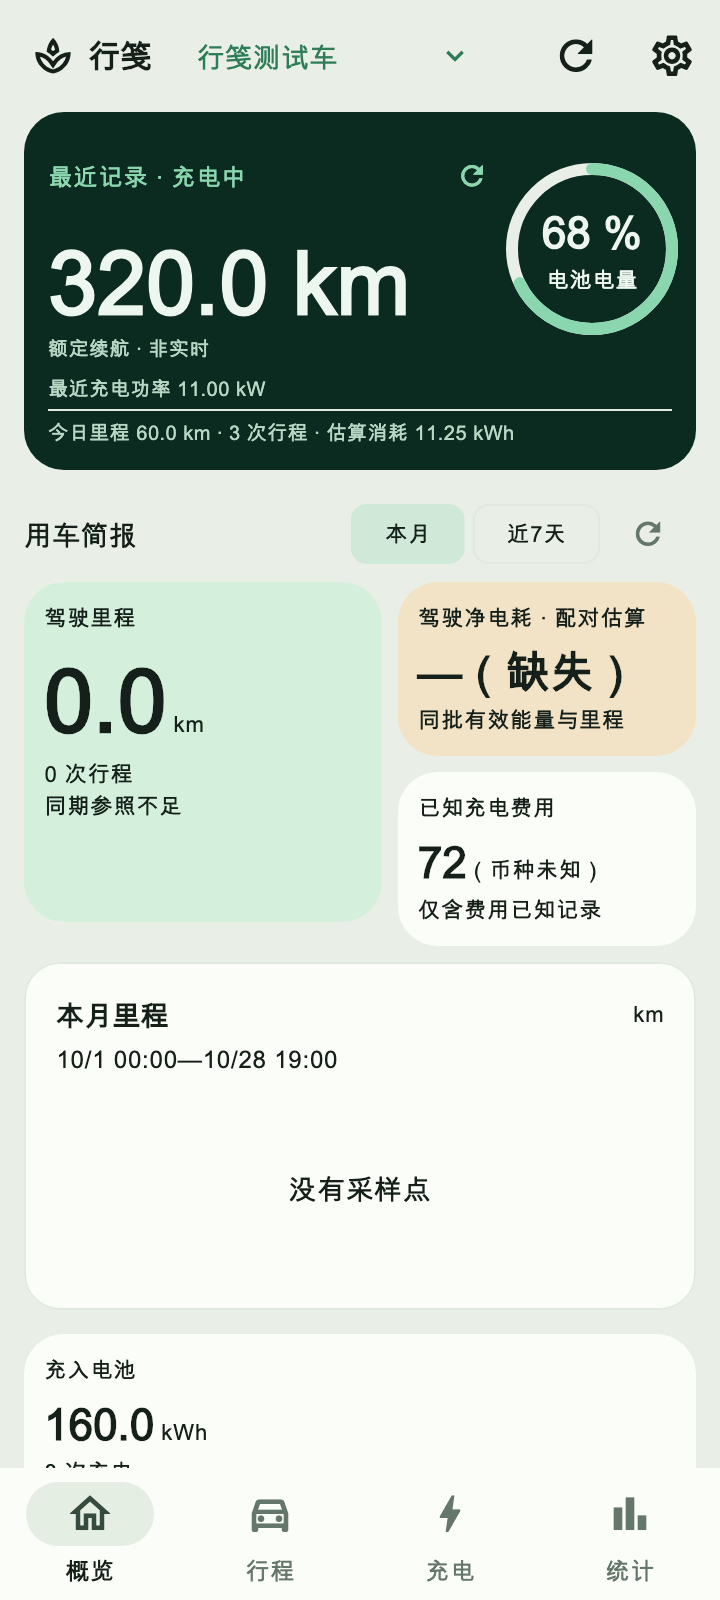
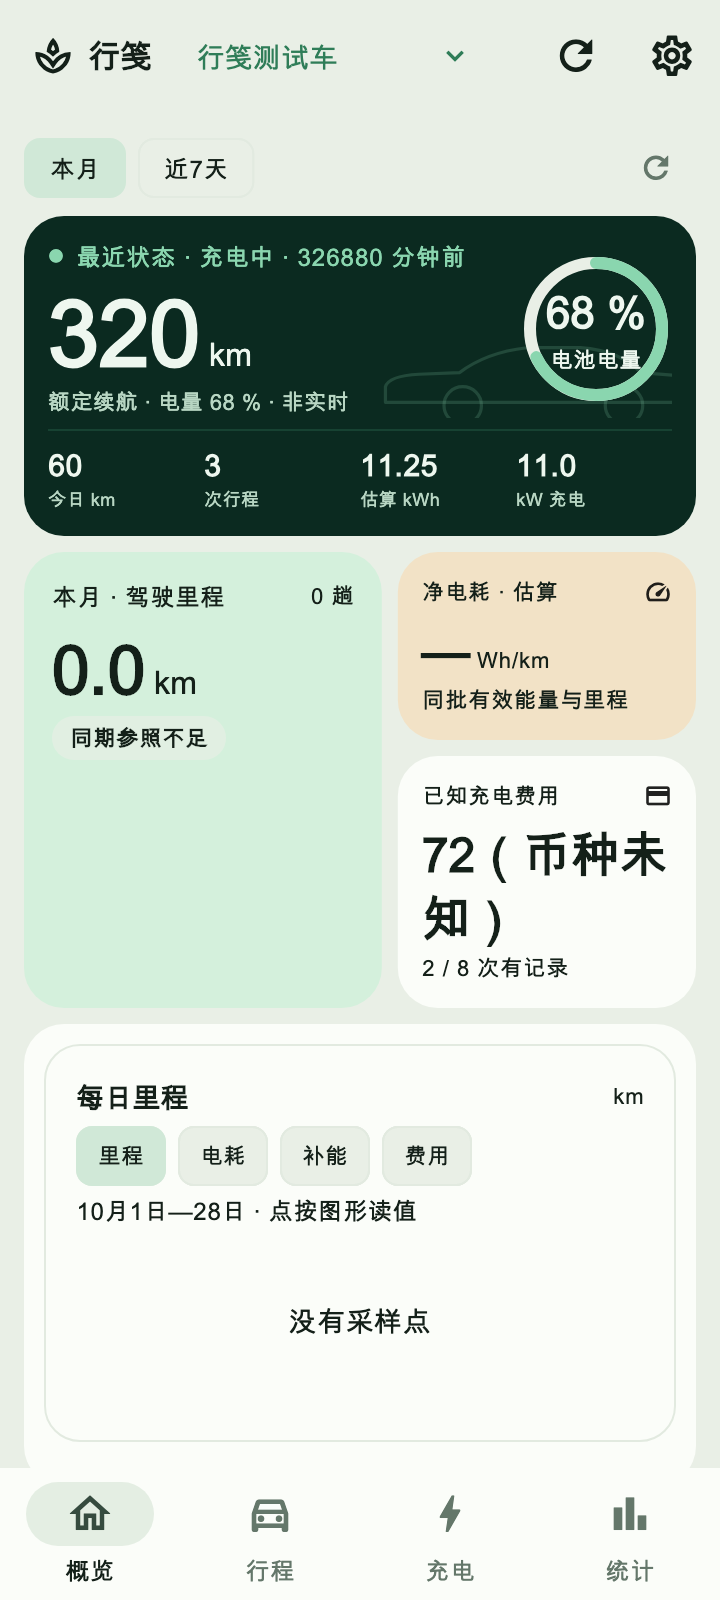
修复渲染入口选择器并刷新概览图册
collage_render_test 改按当前「净电耗 · 估算」入口选净值口径；
c_gallery_render_test 的路线脚注改为「路线 · 非导航」并只在 100% 断言；
重新生成 collage-renders/overview 24 张。

diff --git a/test/collage_render_test.dart b/test/collage_render_test.dart
@@ -110,9 +110,8 @@ void main() {
             ),
           );
           await save('overview-$suffix');
-          final metricLabel = scenario == 'capability-failure'
-              ? '驾驶净电耗 · 估算'
-              : '驾驶净电耗 · 配对估算';
+          // 净值口径的入口是本月块「净电耗 · 估算」tile（旧文案为「驾驶净电耗 …」）。
+          const metricLabel = '净电耗 · 估算';
           await tester.scrollUntilVisible(
             find.text(metricLabel).hitTestable(),
             120,

diff --git a/test/c_gallery_render_test.dart b/test/c_gallery_render_test.dart
@@ -214,7 +214,8 @@ void main() {
             await tester.tap(find.text('最近行程').hitTestable());
             await tester.pumpAndSettle();
             await save('drive-detail-$suffix');
-            expectPage('路线示意 · 非导航');
+            // ≥150% 字号时路线说明带收成两行，C05 的「非导航」脚注不再绘制。
+            if (scale == 1.0) expectPage('路线 · 非导航');
             await pumpApp('overview-return-$suffix', scenario: scenario);
           }
           {

diff --git a/docs/implementation/collage-overview.md b/docs/implementation/collage-overview.md
@@ -48,4 +48,15 @@ TDD：首个布局测试先失败（里程tile160宽，预期>175），实施后
 - 概览本月块启用 `stretch`：主 tile 的里程 Sparkline 改 `Expanded` 吸收余量（≥150% 单列时仍固定 26），回到 C 原型「主 tile 下半段大面积折线」的比例；净电耗 tile 补右上角图标，与费用 tile 的标签行同构。
 - 最近记录改为共享 tile 结构（标题行／主数／单行口径／页脚）：宽屏 `IntrinsicHeight` 两等列，页脚（时间戳）底对齐；≥150% 单列。充电卡口径改为「充入 46.80 kWh」，不再输出悬空的「结束电量」；进度条移入页脚上方并显式取 hero 主题的 `primary`/`onSurface`，避免轨道比进度更亮。
 
-回归：新增三项先失败（本月块底边差 60dp、最近记录底边差 4dp）后通过——两列矩形顶底对齐、页脚贴卡底（距卡底 20dp = 内容 12 + 卡片下距 8）、口径文案与 ≥150% 单列分支。全量 `tool/flutterw test --no-pub` 274 通过、19 项 opt-in 渲染跳过；`flutter analyze --no-pub` 无问题。渲染复核用临时脚手架在 390×844 浅/深 ×100/200 完成（位图未入库、脚手架已删除）：本月块两列顶底对齐，最近记录两卡等高、页脚同一基线，单列分支无溢出。图册入口 `test/collage_render_test.dart` 的选择器仍是旧口径文案（`驾驶净电耗 · 配对估算` 等），本次未修，因此 `collage-renders/overview/` 未刷新——属既有失效，另行修复。
+回归：新增三项先失败（本月块底边差 60dp、最近记录底边差 4dp）后通过——两列矩形顶底对齐、页脚贴卡底（距卡底 20dp = 内容 12 + 卡片下距 8）、口径文案与 ≥150% 单列分支。全量 `tool/flutterw test --no-pub` 274 通过、19 项 opt-in 渲染跳过；`flutter analyze --no-pub` 无问题。
+
+复现：`tool/flutterw test --no-pub test/collage_render_test.dart --dart-define=MILEAF_RENDER_OUTPUT=docs/implementation/collage-renders/overview '--dart-define=MILEAF_RENDER_FONT=/System/Library/Fonts/Supplemental/Arial Unicode.ttf'`。
+
+## 2026-11-01 图册入口修复与概览图册刷新
+
+上一轮把概览版式改完后，两个 opt-in 渲染入口仍指向旧文案，图册因此没有现行证据。本次只修入口与图表，不改页面行为。
+
+- `test/collage_render_test.dart`：净值口径入口由旧文案「驾驶净电耗 · 配对估算／驾驶净电耗 · 估算」改为实际 tile「净电耗 · 估算」；配对图标题仍按 `pairedAvailable` 断言「配对净电耗趋势 · 估算」，能力失败分支保留「净电耗趋势 · 估算」。
+- `test/c_gallery_render_test.dart`：路线说明带脚注改为当前文案「路线 · 非导航」，并把断言收进 `scale == 1.0`——≥150% 字号时该脚注按 C05 不再绘制，旧断言在 200% 必然失败（旧文案同样如此）。
+- 重新生成 `docs/implementation/collage-renders/overview/`：24 张（normal／empty／missing × 浅／深 × 100／200，每档一张首屏 + 一张配对净电耗图），来源为上述 `collage_render_test.dart` 的正式 Flutter 渲染。文件包含 2026-10-31 电量环修正之后的版式，`provenance.json` 仍是集成时整册清单，未逐张重算。
+- 修复前两个入口均失败（`Bad state: No element`／找不到旧脚注），修复后各自通过；`collage_render_test` 仍属 opt-in，不传 `MILEAF_RENDER_OUTPUT` 时跳过。

diff --git a/docs/implementation/amap-map.md b/docs/implementation/amap-map.md
@@ -12,7 +12,7 @@
 - iOS：`UiKitView` + Swift `MAMapView`（`AMap3DMap-NO-IDFA` 11.2.100 + `AMapFoundation-NO-IDFA` 1.9.1）；MapKit 过渡已移除。同意后才创建 `MAMapView`；创建前 `AMapServices.enableHTTPS = true`、`apiKey` 注入、`MAMapView.updatePrivacyShow(.didShow, privacyInfo: .didContain)` 与 `updatePrivacyAgree(.didAgree)`。缺 key / 未同意立即 `initFailed`，回路线速写，不崩溃。
 - iOS key 绑定 Bundle ID `app.mileaf.mileaf`；`ios/Flutter/AMap.local.xcconfig`（gitignored）→ `MILEAF_AMAP_IOS_KEY` → `Info.plist` 的 `MileafAMapIosKey` → `AMapServices.apiKey`。仓库只保留 example；无 key 时构建可编译，运行时地图走速写。
 - 两端 `providerName` 同为「高德地图」；同意按供应商隔离（原 Apple 地图授权不会沿用，也不会复用路线示意授权）。
-- 行程详情：整栏 300px hero（左右 12px 页面边距、20px 圆角），点按进入 `DriveMapPage` 全屏缩放；充电详情地图在功率曲线之后 180px 次级，同样 20px 圆角。
+- 行程详情：整栏 300px hero（左右 12px 页面边距、20px 圆角），点按进入 `DriveMapPage` 全屏缩放；充电详情地图在功率曲线之后 180px 次级，同样 20px 圆角。路线说明带脚注随真实底图改为「路线 · 非导航」（原 C05 的「路线示意 · 非导航」用词针对合成路线）。
 - 同意：`SharedPreferences` 持久化；设置与服务 → 「地图与隐私」可撤销；撤销后不再创建新原生视图，已加载 SDK 内存状态可能持续到进程结束。
 - 删除 `map_candidate.dart`、`flutter_map`、`latlong2`、`mapkit_platform.dart`。
 

diff --git a/docs/implementation/collage-drive-detail.md b/docs/implementation/collage-drive-detail.md
@@ -6,6 +6,8 @@
 
 2026-10-31 视觉修正（用户反馈）：地图此前左右出血、仅下缘圆角，与 12px 页面边距的其他模块割裂。现行程详情地图与内容同栏（左右 12px、上 12px、下 8px），四角 20px 圆角，高度仍 300；充电详情地点图同步 20px 圆角并补 8px 下距；全屏 `DriveMapPage` 仍满宽、仅下缘 22px 圆角。`drive_detail_test` 改为断言地图左右边距与「距离」tile 一致。
 
+2026-11-01 文案与图册同步：路线说明带脚注随真实底图接入改为「路线 · 非导航」（原「路线示意 · 非导航」，见 `amap-map.md`）；`c_gallery_render_test.dart` 的脚注断言改为当前文案，并收进 100% 字号——≥150% 时该脚注按 C05 不再绘制，旧断言在 200% 必然失败。
+
 ## 验证
 
 - TDD：新增 App＋可控HTTP测试先失败（地图168位于标题72之后），实现后验证地图在路线之前、左右满幅（2026-10-31 改为 12px 页面边距，见上）；未新增内部测试接口。
